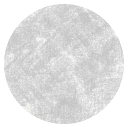
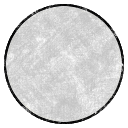
added borders to default planet texture and changed random colors of fill planet animation to be brighter

Changed region(s): [[0.0312, 0.0312, 0.9688, 0.9688]]

diff --git a/superflyingthing-core/src/main/java/com/gemserk/games/superflyingthing/templates/EntityTemplates.java b/superflyingthing-core/src/main/java/com/gemserk/games/superflyingthing/templates/EntityTemplates.java
@@ -499,9 +499,9 @@ public class EntityTemplates {
 			Color color = parameters.get("color");
 
 			if (color == null)
-				color = new Color(MathUtils.random(0.1f, 1f), //
-						MathUtils.random(0.1f, 1f), //
-						MathUtils.random(0.1f, 1f), //
+				color = new Color(MathUtils.random(0.3f, 1f), //
+						MathUtils.random(0.3f, 1f), //
+						MathUtils.random(0.3f, 1f), //
 						1f);
 
 			Animation planetFillAnimation = resourceManager.getResourceValue(animationId);
